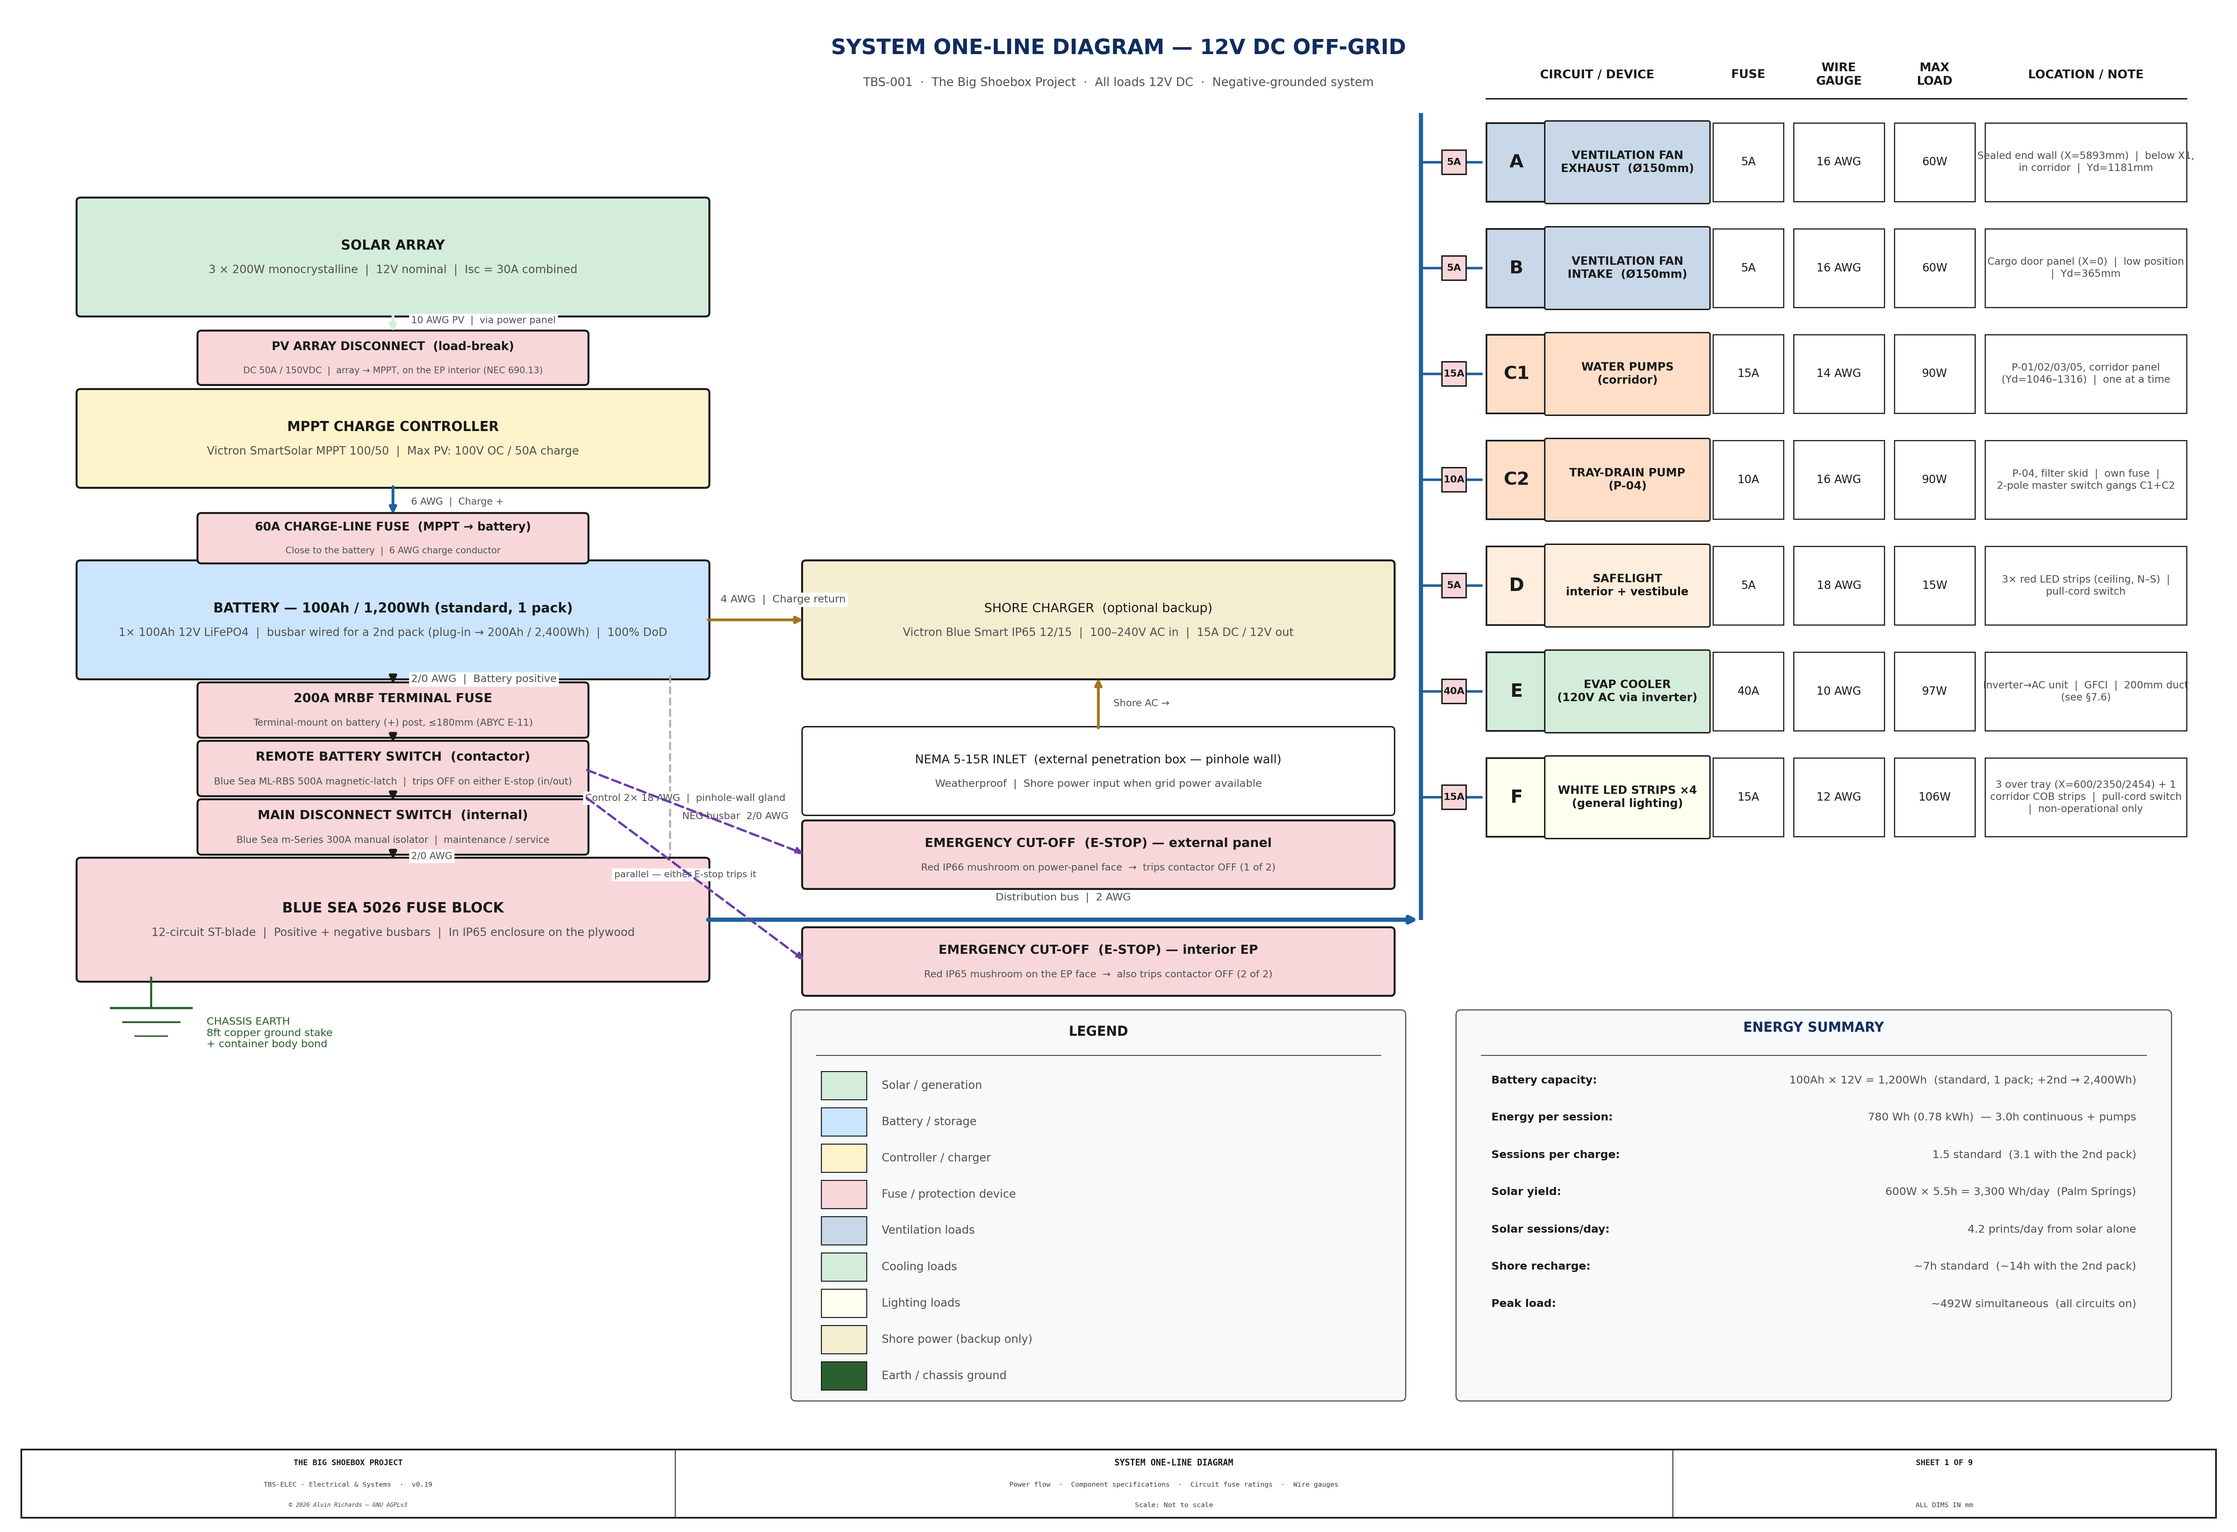
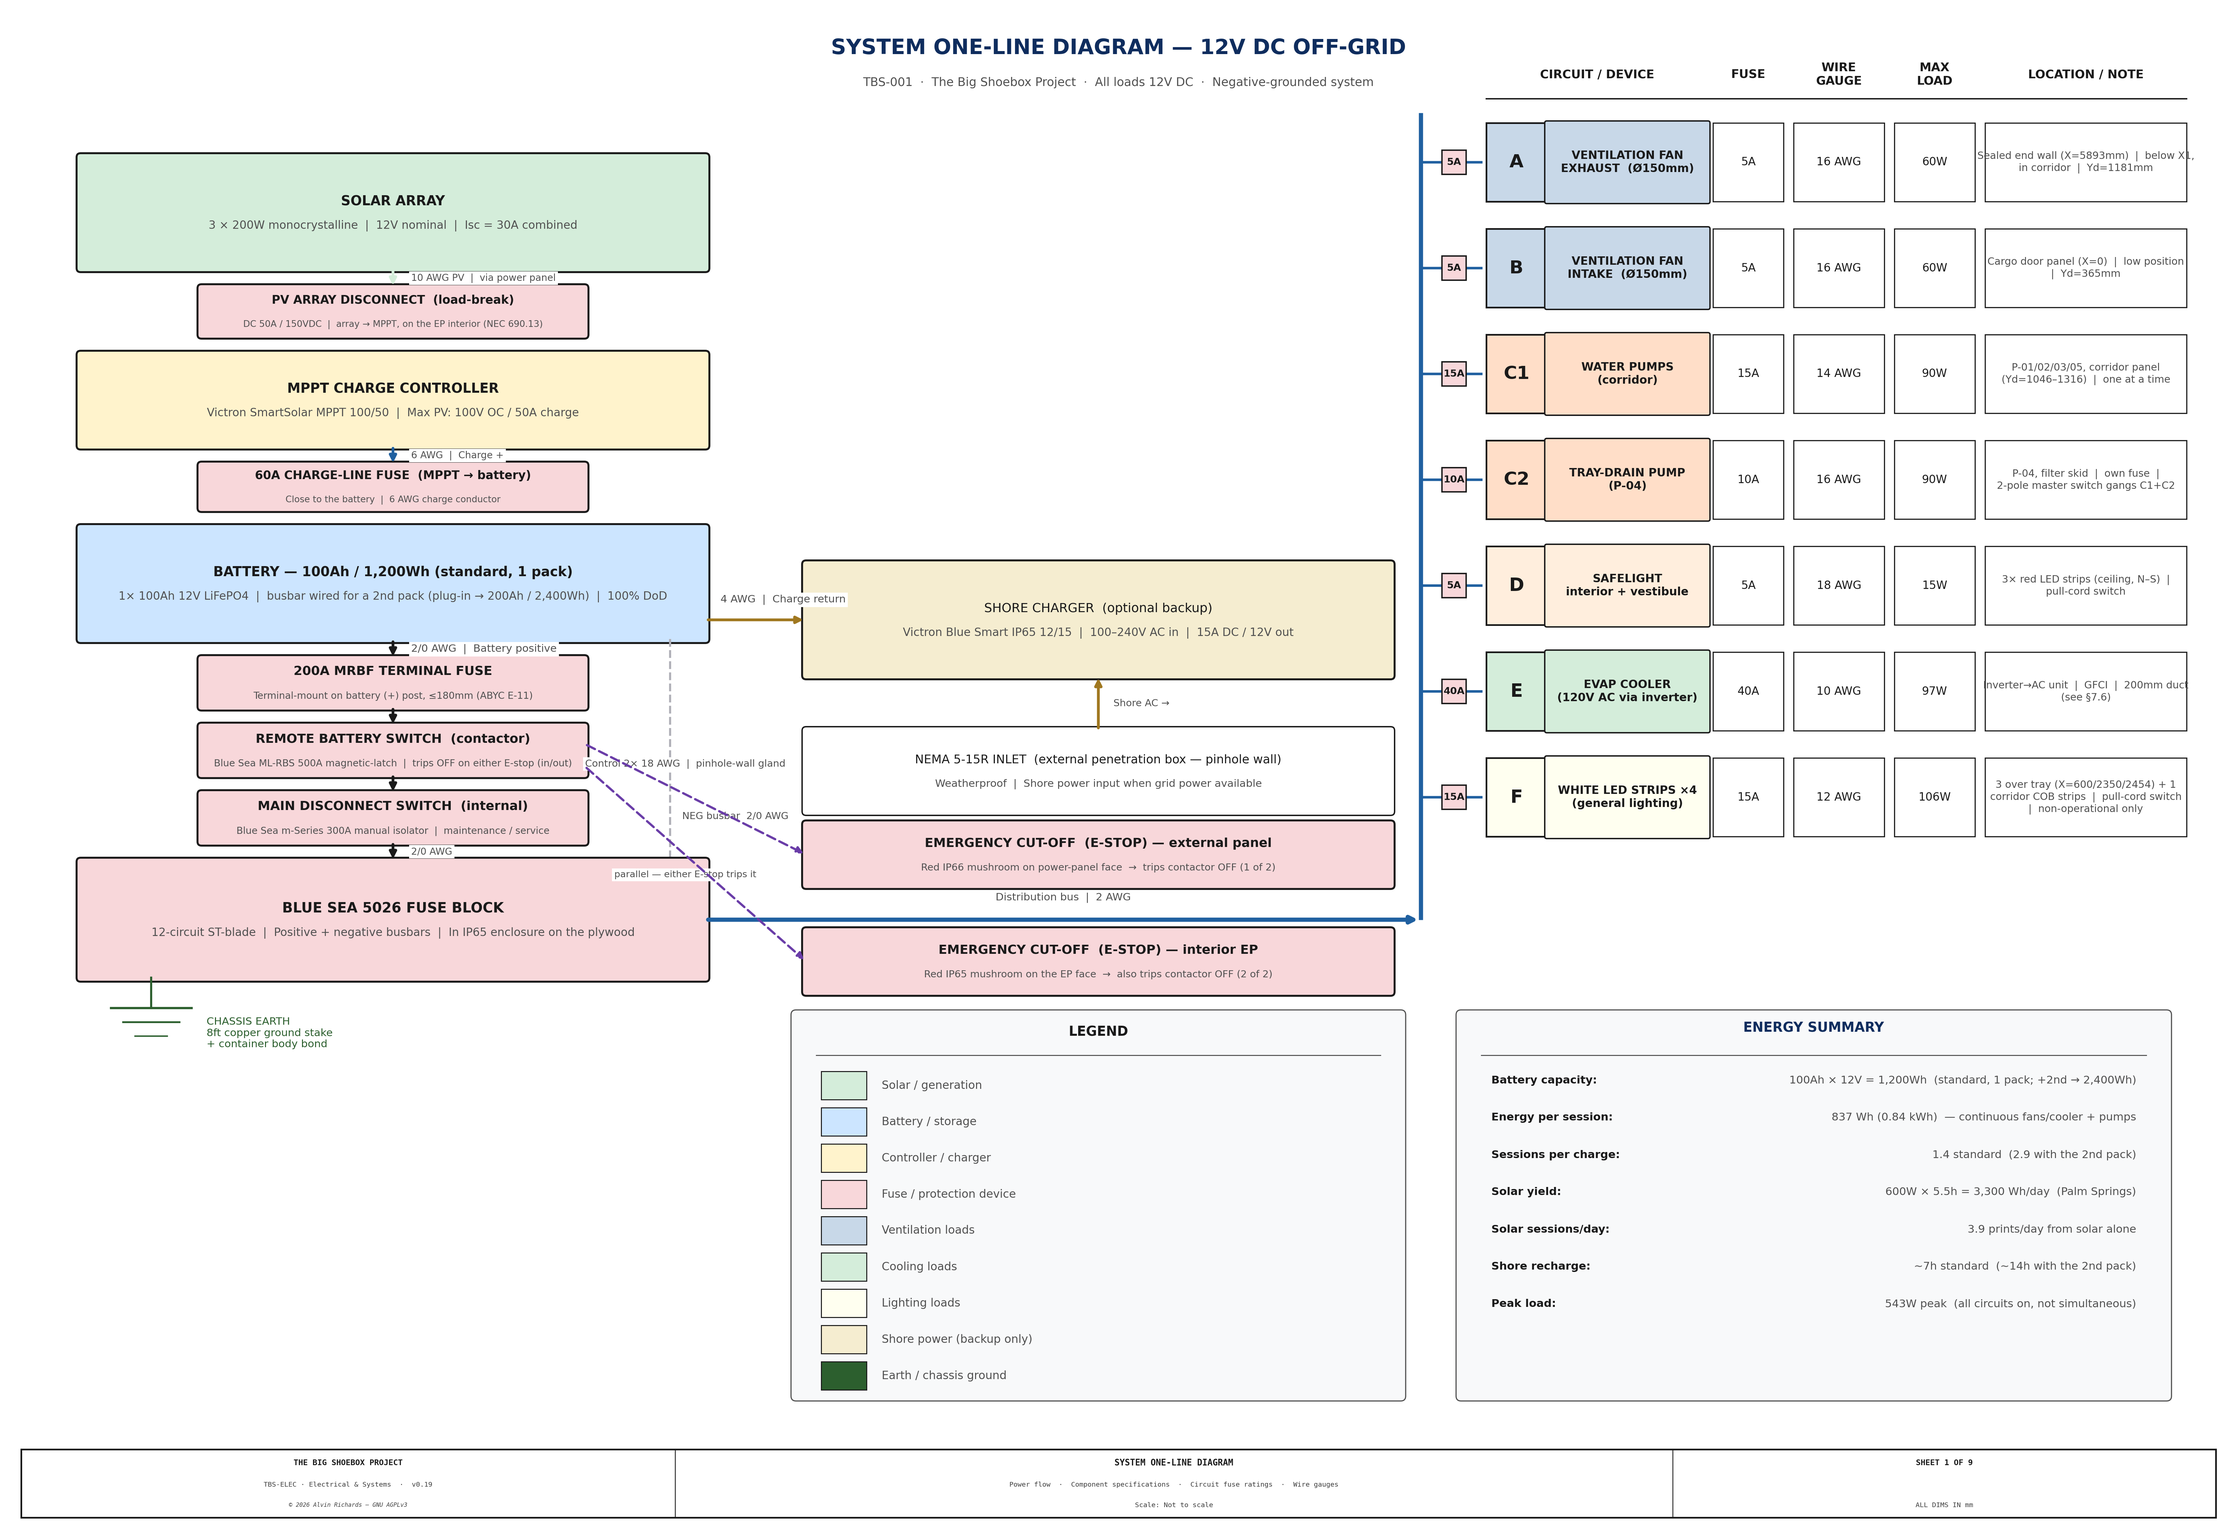
Electrical diagrams: fix sheet-7 switch orientation + sheet-1 spacing
Sheet 7: the K1 contactor and MAIN disconnect sit in the HORIZONTAL
battery-protection chain but were drawn with the vertical isolator symbol,
so their blades rendered rotated 90° to the run. Added a horizontal variant
to disconnect()/contactor() (terminals left/right, blade lifts along the
wire) and switched K1/MAIN to it. PV DISC (vertical run) + the E-stops
(horizontal) were already correct and unchanged.

Sheet 1: the left power-chain boxes overlapped/crammed (the 60A fuse sat on
the battery; MRBF/remote-switch/main-disconnect/5026 were stacked with
~0.05-0.11 gaps). Kept the 5026 block fixed at the bottom (so the
distribution bus, E-stop boxes and legend don't move) and re-spaced
everything above it with uniform 0.20 gaps; top lifts to a safe 13.54.

Also reconciled the Sheet-1 ENERGY SUMMARY, which had gone stale: 780 Wh ->
837 Wh, ~492W -> 543W peak, 1.5 -> 1.4 sessions, 4.2 -> 3.9 solar-sessions
(matches electrical-report §3/§3.1). Added TODOs for sheet-9 corrugation
(drawn as a peak, should be a flat trapezoidal bridge) and for injecting the
sheet-1 energy summary so it can't drift again.

Changed region(s): [[0.0312, 0.0934, 0.3435, 0.5605]]

diff --git a/src/generators/generate_electrical_diagram.py b/src/generators/generate_electrical_diagram.py
@@ -106,74 +106,74 @@ def draw_sheet1():
     CX = LX + LW / 2   # centerline
 
     # 1. Solar array  y=12.0–13.1
-    rbox(ax, LX, 12.0, LW, 1.1,
+    rbox(ax, LX, 12.44, LW, 1.1,
          "SOLAR ARRAY",
          "3 × 200W monocrystalline  |  12V nominal  |  Isc = 30A combined",
          fc=C_SOLAR, ts=9.5, ss=8.0)
 
     # 2. MPPT  y=10.3–11.2
-    rbox(ax, LX, 10.3, LW, 0.9,
+    rbox(ax, LX, 10.68, LW, 0.9,
          "MPPT CHARGE CONTROLLER",
          "Victron SmartSolar MPPT 100/50  |  Max PV: 100V OC / 50A charge",
          fc=C_ELEC_TINT, ts=9.5, ss=8.0)
     # 1b. PV array disconnect — load-break isolator between array and MPPT (NEC 690.13)
-    rbox(ax, LX + 1.2, 11.32, LW - 2.4, 0.46,
+    rbox(ax, LX + 1.2, 11.78, LW - 2.4, 0.46,
          "PV ARRAY DISCONNECT  (load-break)",
          "DC 50A / 150VDC  |  array → MPPT, on the EP interior (NEC 690.13)",
          fc=C_WARN, ts=8.3, ss=6.4)
-    varrow(ax, CX, 12.0, 11.78, col=C_SOLAR)
-    wlabel(ax, CX + 0.18, 11.92, "10 AWG PV  |  via power panel", size=6.8)
+    varrow(ax, CX, 12.44, 12.24, col=C_SOLAR)
+    wlabel(ax, CX + 0.18, 12.34, "10 AWG PV  |  via power panel", size=6.8)
 
     # 3. Battery bank  y=8.4–9.5
-    rbox(ax, LX, 8.4, LW, 1.1,
+    rbox(ax, LX, 8.76, LW, 1.1,
          "BATTERY — 100Ah / 1,200Wh (standard, 1 pack)",
          "1× 100Ah 12V LiFePO4  |  busbar wired for a 2nd pack (plug-in → 200Ah / 2,400Wh)  |  100% DoD",
          fc=C_BATT_TINT, ts=9.5, ss=8.0)
     # 2b. MPPT charge-line fuse — protects the MPPT→battery conductor (6 AWG)
-    rbox(ax, LX + 1.2, 9.55, LW - 2.4, 0.42,
+    rbox(ax, LX + 1.2, 10.06, LW - 2.4, 0.42,
          "60A CHARGE-LINE FUSE  (MPPT → battery)",
          "Close to the battery  |  6 AWG charge conductor",
          fc=C_WARN, ts=8.3, ss=6.4)
-    varrow(ax, CX, 10.3, 9.97, col=C_CL)
-    wlabel(ax, CX + 0.18, 10.12, "6 AWG  |  Charge +", size=6.8)
+    varrow(ax, CX, 10.68, 10.48, col=C_CL)
+    wlabel(ax, CX + 0.18, 10.58, "6 AWG  |  Charge +", size=6.8)
 
     # Negative busbar (dashed, right side of column)
     nb_x = LX + LW - 0.35
-    ax.plot([nb_x, nb_x], [8.4, 5.6],
+    ax.plot([nb_x, nb_x], [8.76, 5.6],
             color=C_STEEL, lw=1.5, linestyle="--", zorder=3)
     wlabel(ax, nb_x + 0.12, 7.0, "NEG busbar  2/0 AWG", size=7.0)
 
     # 4. MRBF terminal fuse — on the battery (+) post, ≤180mm  y=7.82–8.29
     bx = LX + 1.2
     bw = LW - 2.4
-    rbox(ax, bx, 7.82, bw, 0.47,
+    rbox(ax, bx, 8.09, bw, 0.47,
          "200A MRBF TERMINAL FUSE",
          "Terminal-mount on battery (+) post, ≤180mm (ABYC E-11)",
          fc=C_WARN, ts=9.0, ss=6.8)
-    varrow(ax, CX, 8.4, 8.29, col=C_OUT)
-    wlabel(ax, CX + 0.18, 8.36, "2/0 AWG  |  Battery positive")
+    varrow(ax, CX, 8.76, 8.56, col=C_OUT)
+    wlabel(ax, CX + 0.18, 8.66, "2/0 AWG  |  Battery positive")
 
     # 4b. Remote battery switch (contactor) — tripped by the external E-stop  y=7.24–7.71
-    rbox(ax, bx, 7.24, bw, 0.47,
+    rbox(ax, bx, 7.42, bw, 0.47,
          "REMOTE BATTERY SWITCH  (contactor)",
          "Blue Sea ML-RBS 500A magnetic-latch  |  trips OFF on either E-stop (in/out)",
          fc=C_WARN, ts=9.0, ss=6.8)
-    varrow(ax, CX, 7.82, 7.71, col=C_OUT)
+    varrow(ax, CX, 8.09, 7.89, col=C_OUT)
 
     # 4c. Internal main disconnect switch — maintenance/service  y=6.66–7.13
-    rbox(ax, bx, 6.66, bw, 0.47,
+    rbox(ax, bx, 6.75, bw, 0.47,
          "MAIN DISCONNECT SWITCH  (internal)",
          "Blue Sea m-Series 300A manual isolator  |  maintenance / service",
          fc=C_WARN, ts=9.0, ss=6.8)
-    varrow(ax, CX, 7.24, 7.13, col=C_OUT)
+    varrow(ax, CX, 7.42, 7.22, col=C_OUT)
 
     # 5. Fuse block  y=5.4–6.55
     rbox(ax, LX, 5.4, LW, 1.15,
          "BLUE SEA 5026 FUSE BLOCK",
          "12-circuit ST-blade  |  Positive + negative busbars  |  In IP65 enclosure on the plywood",
          fc=C_WARN, ts=10.0, ss=8.0)
-    varrow(ax, CX, 6.66, 6.55, col=C_OUT)
-    wlabel(ax, CX + 0.18, 6.605, "2/0 AWG", size=6.8)
+    varrow(ax, CX, 6.75, 6.55, col=C_OUT)
+    wlabel(ax, CX + 0.18, 6.65, "2/0 AWG", size=6.8)
 
     # Ground symbol below fuse block
     gx = LX + 0.7
@@ -219,10 +219,10 @@ def draw_sheet1():
          "Red IP66 mushroom on power-panel face  →  trips contactor OFF (1 of 2)",
          fc=C_WARN, ts=9.0, ss=7.0)
     # low-current control loop: contactor (left chain) → external E-stop
-    ax.annotate("", xy=(SC_X, es_y + es_h / 2), xytext=(bx + bw, 7.47),
+    ax.annotate("", xy=(SC_X, es_y + es_h / 2), xytext=(bx + bw, 7.72),
                 arrowprops=dict(arrowstyle="-|>", color="#6A3DA8",
                                 lw=1.6, linestyle=(0, (4, 2))), zorder=7)
-    wlabel(ax, (bx + bw + SC_X) / 2 - 0.1, 7.18,
+    wlabel(ax, (bx + bw + SC_X) / 2 - 0.1, 7.52,
            "Control 2× 18 AWG  |  pinhole-wall gland", ha="center", size=7.0)
     # interior E-stop on the EP face — paralleled with the exterior one (kill from inside too).
     # Sits BELOW the distribution bus (y≈5.98) — the external E-stop is above it — so the bus runs
@@ -232,7 +232,7 @@ def draw_sheet1():
          "EMERGENCY CUT-OFF  (E-STOP) — interior EP",
          "Red IP65 mushroom on the EP face  →  also trips contactor OFF (2 of 2)",
          fc=C_WARN, ts=9.0, ss=7.0)
-    ax.annotate("", xy=(SC_X, ies_y + es_h / 2), xytext=(bx + bw, 7.20),
+    ax.annotate("", xy=(SC_X, ies_y + es_h / 2), xytext=(bx + bw, 7.50),
                 arrowprops=dict(arrowstyle="-|>", color="#6A3DA8",
                                 lw=1.6, linestyle=(0, (4, 2))), zorder=7)
     wlabel(ax, (bx + bw + SC_X) / 2 - 0.1, 6.42,
@@ -280,12 +280,12 @@ def draw_sheet1():
     # electrical-report.md §3.1.  Update all three when specs change.
     summary = [
         ("Battery capacity",    "100Ah × 12V = 1,200Wh  (standard, 1 pack; +2nd → 2,400Wh)"),
-        ("Energy per session",  "780 Wh (0.78 kWh)  — 3.0h continuous + pumps"),
-        ("Sessions per charge", "1.5 standard  (3.1 with the 2nd pack)"),
+        ("Energy per session",  "837 Wh (0.84 kWh)  — continuous fans/cooler + pumps"),
+        ("Sessions per charge", "1.4 standard  (2.9 with the 2nd pack)"),
         ("Solar yield",         "600W × 5.5h = 3,300 Wh/day  (Palm Springs)"),
-        ("Solar sessions/day",  "4.2 prints/day from solar alone"),
+        ("Solar sessions/day",  "3.9 prints/day from solar alone"),
         ("Shore recharge",      "~7h standard  (~14h with the 2nd pack)"),
-        ("Peak load",           "~492W simultaneous  (all circuits on)"),
+        ("Peak load",           "543W peak  (all circuits on, not simultaneous)"),
     ]
     for k, (param, val) in enumerate(summary):
         yk = ey + eh - 0.80 - k * 0.37
@@ -2212,14 +2212,24 @@ def draw_sheet7():
             ax.add_patch(R((x - 26, y - 13), 52, 26, fc="white", ec=LN, lw=1.6, zorder=5))
             ax.plot([x - 26, x + 26], [y, y], color=LN, lw=1.1, zorder=6)
             txt(x, y + 22, rating, fs=6.4, w="bold", c=RED)
-    def disconnect(x, y, label=""):                       # open-able isolator (vertical)
-        dot(x, y - 22); ax.plot([x, x - 18], [y - 22, y + 20], color=LN, lw=2.0, zorder=5); dot(x, y + 22)
-        if label:
-            txt(x - 28, y, label, fs=6, ha="right")
-    def contactor(x, y):                                  # NO power contact of K1 (vertical)
-        dot(x, y - 22); ax.plot([x, x - 18], [y - 22, y + 20], color=LN, lw=2.0, zorder=5); dot(x, y + 22)
-        ax.plot([x - 9, x - 9], [y - 4, y + 8], color=LN, lw=0.9, ls=(0, (2, 2)), zorder=5)  # actuation tie
-        txt(x - 30, y + 26, "K1", fs=6.3, ha="right", w="bold")
+    def disconnect(x, y, label="", vert=True):            # open-able isolator
+        if vert:                                          # terminals top/bottom, blade lifts up-left
+            dot(x, y - 22); ax.plot([x, x - 18], [y - 22, y + 20], color=LN, lw=2.0, zorder=5); dot(x, y + 22)
+            if label:
+                txt(x - 28, y, label, fs=6, ha="right")
+        else:                                             # terminals left/right, blade lifts up-right (matches the run)
+            dot(x - 22, y); ax.plot([x - 22, x + 14], [y, y + 14], color=LN, lw=2.0, zorder=5); dot(x + 22, y)
+            if label:
+                txt(x, y - 16, label, fs=6, ha="center", va="top")
+    def contactor(x, y, vert=True):                       # NO power contact of K1
+        if vert:
+            dot(x, y - 22); ax.plot([x, x - 18], [y - 22, y + 20], color=LN, lw=2.0, zorder=5); dot(x, y + 22)
+            ax.plot([x - 9, x - 9], [y - 4, y + 8], color=LN, lw=0.9, ls=(0, (2, 2)), zorder=5)  # actuation tie
+            txt(x - 30, y + 26, "K1", fs=6.3, ha="right", w="bold")
+        else:                                             # horizontal: terminals left/right, blade lifts up-right
+            dot(x - 22, y); ax.plot([x - 22, x + 14], [y, y + 14], color=LN, lw=2.0, zorder=5); dot(x + 22, y)
+            ax.plot([x - 4, x + 6], [y + 8, y + 8], color=LN, lw=0.9, ls=(0, (2, 2)), zorder=5)  # actuation tie
+            txt(x, y + 26, "K1", fs=6.3, ha="center", w="bold")
     def battery(x, y):
         yy = y + 34
         for w, lw in [(38, 1.2), (18, 3.2), (38, 1.2), (18, 3.2)]:
@@ -2269,9 +2279,9 @@ def draw_sheet7():
     PY = 700
     wire([(BX, PY), (610, PY)]); fuse(636, PY, "200A", vert=False)
     txt(636, PY + 40, "MRBF", fs=5.6, c="#666")
-    wire([(662, PY), (742, PY)]); contactor(768, PY)
-    wire([(794, PY), (874, PY)]); disconnect(900, PY, "MAIN")
-    wire([(926, PY), (1000, PY)]); dot(1000, PY)
+    wire([(662, PY), (746, PY)]); contactor(768, PY, vert=False)
+    wire([(790, PY), (878, PY)]); disconnect(900, PY, "MAIN", vert=False)
+    wire([(922, PY), (1000, PY)]); dot(1000, PY)
     wire([(1000, PY), (1000, 1150)])                        # rise to the positive bus
     # negative return
     wire([(BX, BY - 62), (BX, 250)]); dot(BX, 250)

diff --git a/docs/TODO.md b/docs/TODO.md
@@ -49,6 +49,14 @@ The tray-drain pump P-04 moved to its own fuse (**C2**, 10A/16AWG), separate fro
 - [ ] **Refresh `interference-report.txt`** against the re-sent live construction model (the added C2 fuse re-pitches the blade stack again).
 - [ ] **Wash-procedure decision (separate, operating/water scope):** B′ only *enables* continuous flow-through; the Operating Manual §4.2 wash is still the fill-then-drain cycle. To adopt continuous washing, confirm with the **Water System Report** that P-04 (3.5 GPM) holds a stable tray level against P-01/P-02 (3.5 GPM), then rewrite §4.2 + the valve matrix (run C1 + C2 together). Not started.
 
+## 📐 electrical-sheet1 — ENERGY SUMMARY is hand-keyed (drifts) (2026-11-16)
+
+- [ ] The Sheet-1 ENERGY SUMMARY block (`summary = [...]` in `draw_sheet1`) hard-codes session Wh / sessions-per-charge / solar-sessions / peak-load with a "update when specs change" comment — it had gone stale (780 Wh / 492 W / 1.5) and was hand-reconciled to 837 Wh / 543 W / 1.4 on 2026-11-16. Wire these to the injected `energy:`/`fact:` values (or a small shared constant) so the diagram can't drift from the report.
+
+## 📐 electrical-sheet9 — corrugated-wall section drawn as a peak, not a flat bridge (2026-11-16)
+
+- [ ] On electrical-sheet9 (external power-panel box pieces + wall-securing detail) the container-wall **corrugation** is drawn as a sharp **peak/triangle**. Real ISO-container corrugation is closer to a **trapezoidal flat-topped bridge** (flat crest + sloped webs + flat valley), so the flange seats on a flat, not a point. Needs research for a better corrugation profile (trapezoid dims: crest width, pitch, depth, web angle for a standard 20ft corten side/end wall) and then update the section-drawing helper in `generate_electrical_diagram.py` (Sheet 9). Regenerate + re-check.
+
 ## ⏳ Light-trap parts-quote — pending research (2026-08-24)
 
 - [~] **Brush + holder — KEEP AS-IS for now (2026-08-24: "drive to completed blueprints, optimize cost later").** Leave `ll-wiper-brush` (#4 3/16″ est) + `ll-wiper-holder` (Tanis Al est) + the current drawing (Sheets 4/6/7) unchanged — the design is complete; only the price is an estimate. **Cost-optimization candidate for later:** Grainger 18A417 brush + 18A320 holder (confirmed 1/8″ backing pair, 3/4″/19mm trim; only in 10-packs → $270+$259 for a 4-need — expensive as-is; a by-the-foot source would cut it). If adopted later, re-spec the drawing/constants to 1/8″ backing/19mm trim → cascade Sheets 4/6/7/10.
